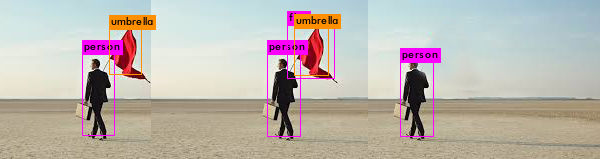
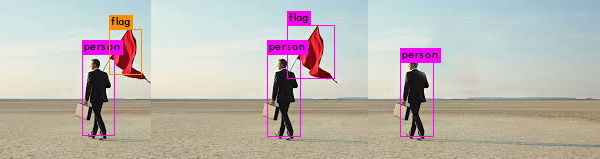
finished setup dummy dataset

diff --git a/src/image.c b/src/image.c
@@ -329,18 +329,87 @@ bool is_recognized(char *detected_class){
     return FALSE;
 }
 
+//void filter_detected_objects(char ***name, detection_with_class* *selected_detections){
+//void filter_detected_objects(char ***name, detection_with_class* selected_detections){
+void filter_detected_objects(char ***name, detection_with_class *selected_detections){
+    /* Copy next element value to current element */
+//    for(i=pos-1; i<size-1; i++)
+//    for(i=pos-1; i<sizeof(selected_detections)-1; i++)
+//    printf(" ****** Total bounding boxes = %d \n", sizeof(selected_detections);
+    int selected_detections_num;
+    int i;
+
+//    selected_detections_num = sizeof(*selected_detections);
+    selected_detections_num = sizeof(selected_detections);
+
+    printf(" ****** Total bounding boxes = %d \n", selected_detections_num);
+
+    for(i=0; i<selected_detections_num; i++)
+    {
+//        const int best_class = selected_detections[i].best_class;
+//        printf("%d ", *selected_detections[i]);
+//        printf(" >> harus e ok sih = %s \n", selected_detections[i].best_class);
+//        printf(selected_detections[i]);
+//        const int best_class = selected_detections[i].best_class;
+//        printf(" ****** %s: %.0f \n", names[best_class], selected_detections[i].det.prob[best_class] * 100);
+//        printf(" ****** %s:  \n", selected_detections[i]);
+//        printf(" ****** %s:  \n", selected_detections[i].best_class);
+//        printf(" ****** %s:  \n", names[best_class];
+//        selected_detections[i] = selected_detections[i + 1];
+    }
+    /* Decrement array size by 1 */
+//    size--;
+}
+
 void draw_detections_v3(image im, detection *dets, int num, float thresh, char **names, image **alphabet, int classes, int ext_output)
 {
     static int frame_id = 0;
     frame_id++;
 
-
     int selected_detections_num;
     detection_with_class* selected_detections = get_actual_detections(dets, num, thresh, &selected_detections_num, names);
 
-    printf("\n");
     // text output
     qsort(selected_detections, selected_detections_num, sizeof(*selected_detections), compare_by_lefts);
+
+    // Ardi: Filter the detected objects
+//    filter_detected_objects(&names, &selected_detections);
+    // Better to do the think HERE, instead of using function. LOL
+    // Please use image "11.jpg"
+    int k;
+    for(k=0; k<sizeof(selected_detections); k++)
+    {
+        char labelstr[4096] = { 0 };
+        strcat(labelstr, names[selected_detections[k].best_class]);
+        const int best_class = selected_detections[k].best_class;
+//        printf(" ****** %s:  \n", names[best_class]);
+        if( (strcmp ("umbrella", labelstr) == 0 && (selected_detections[k].det.prob[selected_detections[k].best_class] * 100) > 30)
+            || (is_recognized(names[selected_detections[k].best_class])) == FALSE
+        ){
+//            printf(" >>> FOUND!!! Deleting %s-%d @ index = %d\n", names[selected_detections[k].best_class], selected_detections[k].best_class, k);
+//            printf("OLD data = %s \n", names[selected_detections[k].best_class]);
+
+            int j;
+//            for(j=k-1; j<selected_detections_num-1; j++){
+            for(j=k; j<selected_detections_num; j++){
+                selected_detections[j] = selected_detections[j + 1];
+            }
+            selected_detections_num--;
+            printf("SHIFTED data = %s \n", names[selected_detections[k].best_class]);
+//            selected_detections[k] = selected_detections[k + 1];
+//            selected_detections_num--;
+        }
+        if (strcmp ("kite", labelstr) == 0
+            || strcmp ("umbrella", labelstr) == 0
+        ){
+            printf("Trying to change label from [%s] into [%s]\n", names[best_class], "flag");
+            strcpy(names[best_class], "flag");
+        }
+
+    }
+    printf("selected_detections_num NEW = %d \n", selected_detections_num);
+    printf("\n");
+
     int i;
     for (i = 0; i < selected_detections_num; ++i) {
         const int best_class = selected_detections[i].best_class;
@@ -433,19 +502,32 @@ void draw_detections_v3(image im, detection *dets, int num, float thresh, char *
 //            save_image(cropped_im, image_name);
 //            free_image(cropped_im);
 
-            if (is_recognized(names[selected_detections[i].best_class])){
-                // Ardi: save the detected object into a cropped image
-                sprintf(image_name, "results/img_%d_%d_%d_%s.jpg", frame_id, img_id, best_class_id, names[best_class_id]);
-                save_image(cropped_im, image_name);
-                free_image(cropped_im);
+//            if (is_recognized(names[selected_detections[i].best_class])){
+//                // Ardi: save the detected object into a cropped image
+//                sprintf(image_name, "results/img_%d_%d_%d_%s.jpg", frame_id, img_id, best_class_id, names[best_class_id]);
+//                save_image(cropped_im, image_name);
+//                free_image(cropped_im);
+//
+//                // Ardi: Drawing bounding boxes
+//                if (im.c == 1) {
+//                    draw_box_width_bw(im, left, top, right, bot, width, 0.8);    // 1 channel Black-White
+//                }
+//                else {
+//                    draw_box_width(im, left, top, right, bot, width, red, green, blue); // 3 channels RGB
+//                }
+//            }
 
-                // Ardi: Drawing bounding boxes
-                if (im.c == 1) {
-                    draw_box_width_bw(im, left, top, right, bot, width, 0.8);    // 1 channel Black-White
-                }
-                else {
-                    draw_box_width(im, left, top, right, bot, width, red, green, blue); // 3 channels RGB
-                }
+            // Ardi: save the detected object into a cropped image
+            sprintf(image_name, "results/img_%d_%d_%d_%s.jpg", frame_id, img_id, best_class_id, names[best_class_id]);
+            save_image(cropped_im, image_name);
+            free_image(cropped_im);
+
+            // Ardi: Drawing bounding boxes
+            if (im.c == 1) {
+                draw_box_width_bw(im, left, top, right, bot, width, 0.8);    // 1 channel Black-White
+            }
+            else {
+                draw_box_width(im, left, top, right, bot, width, red, green, blue); // 3 channels RGB
             }
 
 //            if (im.c == 1) {
@@ -460,36 +542,48 @@ void draw_detections_v3(image im, detection *dets, int num, float thresh, char *
                 char labelstr[4096] = { 0 };
                 strcat(labelstr, names[selected_detections[i].best_class]);
 
-                if (is_recognized(names[selected_detections[i].best_class])){
-                    int j;
-                    for (j = 0; j < classes; ++j) {
-                        if (selected_detections[i].det.prob[j] > thresh && j != selected_detections[i].best_class) {
-                            strcat(labelstr, ", ");
-                            strcat(labelstr, names[j]);
-                        }
-                    }
+//                if (is_recognized(names[selected_detections[i].best_class])){
+//                    int j;
+//                    for (j = 0; j < classes; ++j) {
+//                        if (selected_detections[i].det.prob[j] > thresh && j != selected_detections[i].best_class) {
+//                            strcat(labelstr, ", ");
+//                            strcat(labelstr, names[j]);
+//                        }
+//                    }
+//
+//                    if (strcmp ("kite", labelstr) == 0) {
+//                        strcpy(labelstr, "flag");
+//                    } else if (strcmp ("umbrella", labelstr) == 0) {
+//                        strcpy(labelstr, "flag");
+//                    }
+//
+//                    // Ardi: This is simply used for image "11.jpg"; for testing purpose!
+////                    printf("Label=%s; Prob=%.2f \n", names[selected_detections[i].best_class], (selected_detections[i].det.prob[selected_detections[i].best_class] * 100));
+//                    if( strcmp ("umbrella", labelstr) == 0 && (selected_detections[i].det.prob[selected_detections[i].best_class] * 100) > 30 ){
+//                        // Nothing to do here.
+//                    }else{
+//                        image label = get_label_v3(alphabet, labelstr, (im.h*.03));
+//                        draw_label(im, top + width, left, label, rgb);
+//                        free_image(label);
+//                    }
+//
+//                    // Ardi: please use this instead!
+////                    image label = get_label_v3(alphabet, labelstr, (im.h*.03));
+////                    draw_label(im, top + width, left, label, rgb);
+////                    free_image(label);
+//                }
 
-                    if (strcmp ("kite", labelstr) == 0) {
-                        strcpy(labelstr, "flag");
-                    } else if (strcmp ("umbrella", labelstr) == 0) {
-                        strcpy(labelstr, "flag");
+                int j;
+                for (j = 0; j < classes; ++j) {
+                    if (selected_detections[i].det.prob[j] > thresh && j != selected_detections[i].best_class) {
+                        strcat(labelstr, ", ");
+                        strcat(labelstr, names[j]);
                     }
-                    image label = get_label_v3(alphabet, labelstr, (im.h*.03));
-                    draw_label(im, top + width, left, label, rgb);
-                    free_image(label);
                 }
 
-//                int j;
-//                for (j = 0; j < classes; ++j) {
-//                    if (selected_detections[i].det.prob[j] > thresh && j != selected_detections[i].best_class) {
-//                        strcat(labelstr, ", ");
-//                        strcat(labelstr, names[j]);
-//                    }
-//                }
-//
-//                image label = get_label_v3(alphabet, labelstr, (im.h*.03));
-//                draw_label(im, top + width, left, label, rgb);
-//                free_image(label);
+                image label = get_label_v3(alphabet, labelstr, (im.h*.03));
+                draw_label(im, top + width, left, label, rgb);
+                free_image(label);
             }
             // Ardi: not used in our case
             if (selected_detections[i].det.mask) {
